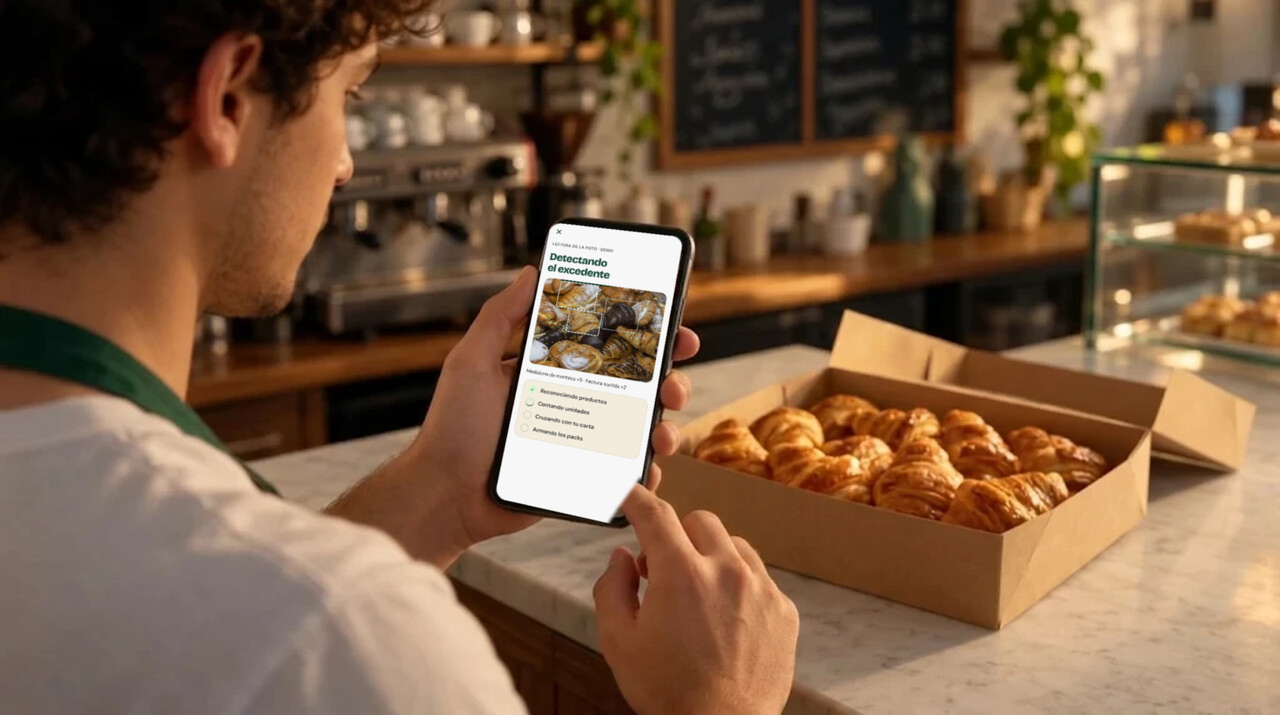
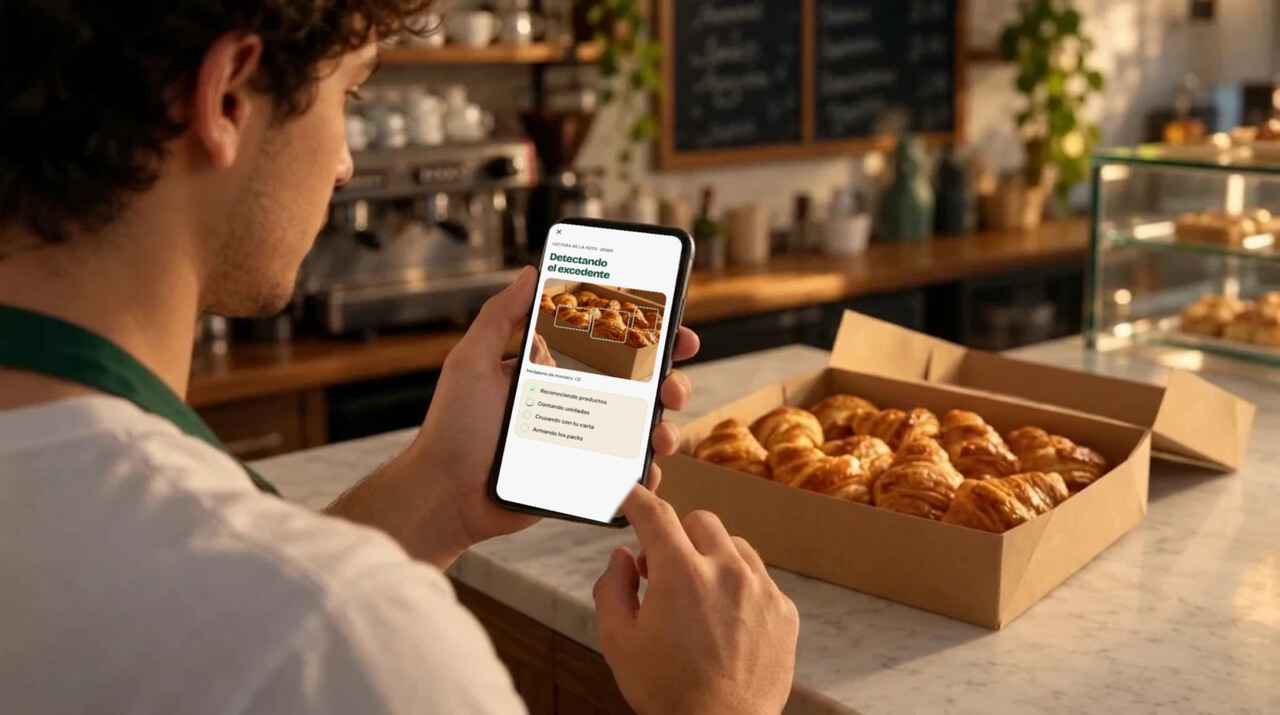
landing: pantalla del clip 1 con las medialunas de la caja
Agente: claude-octi-landing

Claude-Session: https://claude.ai/code/session_01YPepJKyToi4b6U4Aiy3vne

Changed region(s): [[0.4062, 0.3692, 0.5312, 0.5538]]

diff --git a/landing/video/hero-ia/src/v6-pantallas/t09.html b/landing/video/hero-ia/src/v6-pantallas/t09.html
@@ -1,0 +1,10 @@
+<!doctype html><meta charset=utf-8><style>
+@font-face{font-family:D;src:url(dm-sans-400-700.woff2);font-weight:400 700}
+body{margin:0;width:780px;height:1688px;position:relative;background:url(/home/user/APROVECHO-online-/landing/img/app/pantallas/09-analizando.webp)}
+.w{position:absolute;background:#fff}
+#ph{left:36px;top:350px;width:707px;height:531px;border-radius:36px;background:url(foto09.jpg) center/cover;overflow:hidden}
+.b{position:absolute;border:4px solid #fff;border-radius:12px;box-shadow:0 0 0 2px #1a4d3a}
+#c{left:30px;top:900px;width:620px;height:56px;font:400 26px/56px D;color:#26332d;padding-left:6px;box-sizing:border-box}
+</style><div class=w style="left:30px;top:342px;width:720px;height:548px"></div>
+<div id=ph class=w><span class=b style="left:106px;top:155px;width:198px;height:128px"></span><span class=b style="left:326px;top:141px;width:191px;height:177px"></span><span class=b style="left:545px;top:99px;width:124px;height:141px"></span></div>
+<div id=c class=w>Medialuna de manteca ×12</div>

diff --git a/docs/BITACORA.md b/docs/BITACORA.md
@@ -81,3 +81,4 @@
 | 2026-11-11 13:51 | codex-octi-landing | `codex/aprovecho-landing` | `f81ba75` | Fluidez: indicador sin trabajo DOM en reposo, giro 360 a demanda y video accesible; Instagram corregido y botón Descargá la app en cabecera; videos originales intactos | Actualizar Vercel y verificar READY; falta URL oficial de descarga para sustituir el aviso existente |
 | 2026-11-11 13:52 | codex-octi-landing | `codex/aprovecho-landing` | `e0765cf` | Vercel actualizado: mejoras de fluidez, Instagram y botón de app en https://aprovecho-landing.vercel.app/; e0765cf confirmado, READY y alias asignado | Revisión de Octavio; falta URL oficial de descarga de app para reemplazar el aviso de disponibilidad |
 | 2026-11-11 18:24 | claude-octi-landing | `claude/aprovecho-landing` | `bfd8c3f` | Fotos de inicio/final de los clips 1 y 2 del hero con pantallas reales de la app (para rehacer los videos); Codex ya integrado en la rama | Octavio aprueba las fotos; recargar créditos Gemini/Higgsfield y generar los 2 clips |
+| 2026-11-11 19:21 | claude-octi-landing | `claude/aprovecho-landing` | `264a716` | Clip 1: la pantalla 'Detectando el excedente' ahora usa la foto de la caja real (medialunas, x12) para que coincida | Octavio aprueba las fotos; recargar créditos y generar los 2 clips |
